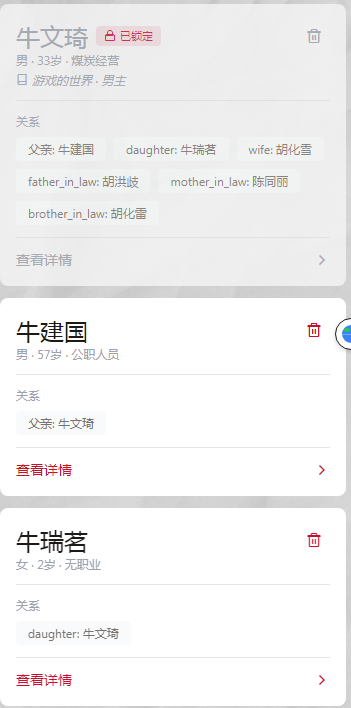
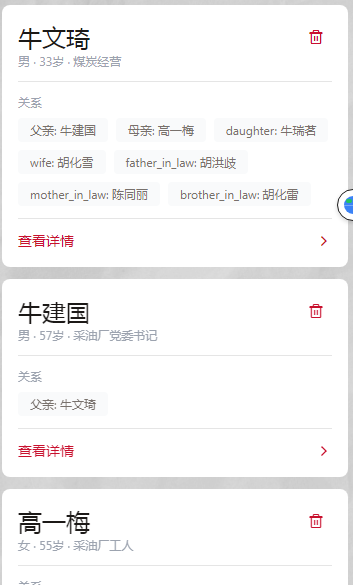
fix: 修复角色库页面的关系显示格式
1. 角色库页面(character-list)修复：
- 导入FAMILY_RELATIONS数组
- 更新getRelationLabel函数使用FAMILY_RELATIONS
- 修改显示格式为'{relatedChar.name}的{relationLabel}'
- 解决英文显示问题（father_in_law等）

2. 保持与角色详情页一致的显示逻辑：
- 牛建国的卡片显示：牛文琦的父亲
- 牛文琦的卡片显示：牛建国的儿子

diff --git a/client/screens/character-list/index.tsx b/client/screens/character-list/index.tsx
@@ -23,6 +23,7 @@ import {
   deleteCharacter,
 } from '@/utils/characterStorage';
 import { Novel, getAllNovels } from '@/utils/novelStorage';
+import { FAMILY_RELATIONS } from '@/constants/familyRelations';
 
 type CharacterTab = 'permanent' | 'temporary';
 
@@ -167,22 +168,9 @@ export default function CharacterListScreen() {
   };
 
   const getRelationLabel = (relation: CharacterRelation, charId: string): string => {
-    const relationTypes: Record<string, string> = {
-      'father': '父亲',
-      'mother': '母亲',
-      'spouse': '配偶',
-      'sibling': '兄弟姐妹',
-      'child': '子女',
-      'friend': '朋友',
-      'enemy': '敌人',
-      'colleague': '同事',
-      'lover': '恋人',
-      'mentor': '导师',
-      'student': '学生',
-    };
-    
-    const label = relationTypes[relation.relationType] || relation.relationType;
-    return label;
+    // 使用FAMILY_RELATIONS数组查找对应的中文名称
+    const relationDef = FAMILY_RELATIONS.find(r => r.id === relation.relationType);
+    return relationDef?.name || relation.relationType;
   };
 
   const getRelatedCharacter = (relation: CharacterRelation, charId: string): Character | undefined => {
@@ -412,10 +400,11 @@ export default function CharacterListScreen() {
                       <View style={styles.relationsList}>
                         {charRelations.map(relation => {
                           const relatedChar = getRelatedCharacter(relation, char.id);
+                          const relationLabel = getRelationLabel(relation, char.id);
                           return (
                             <View key={relation.id} style={styles.relationTag}>
                               <ThemedText variant="caption" color={theme.textSecondary}>
-                                {getRelationLabel(relation, char.id)}: {relatedChar?.name || '未知'}
+                                {relatedChar?.name}的{relationLabel}
                               </ThemedText>
                             </View>
                           );
